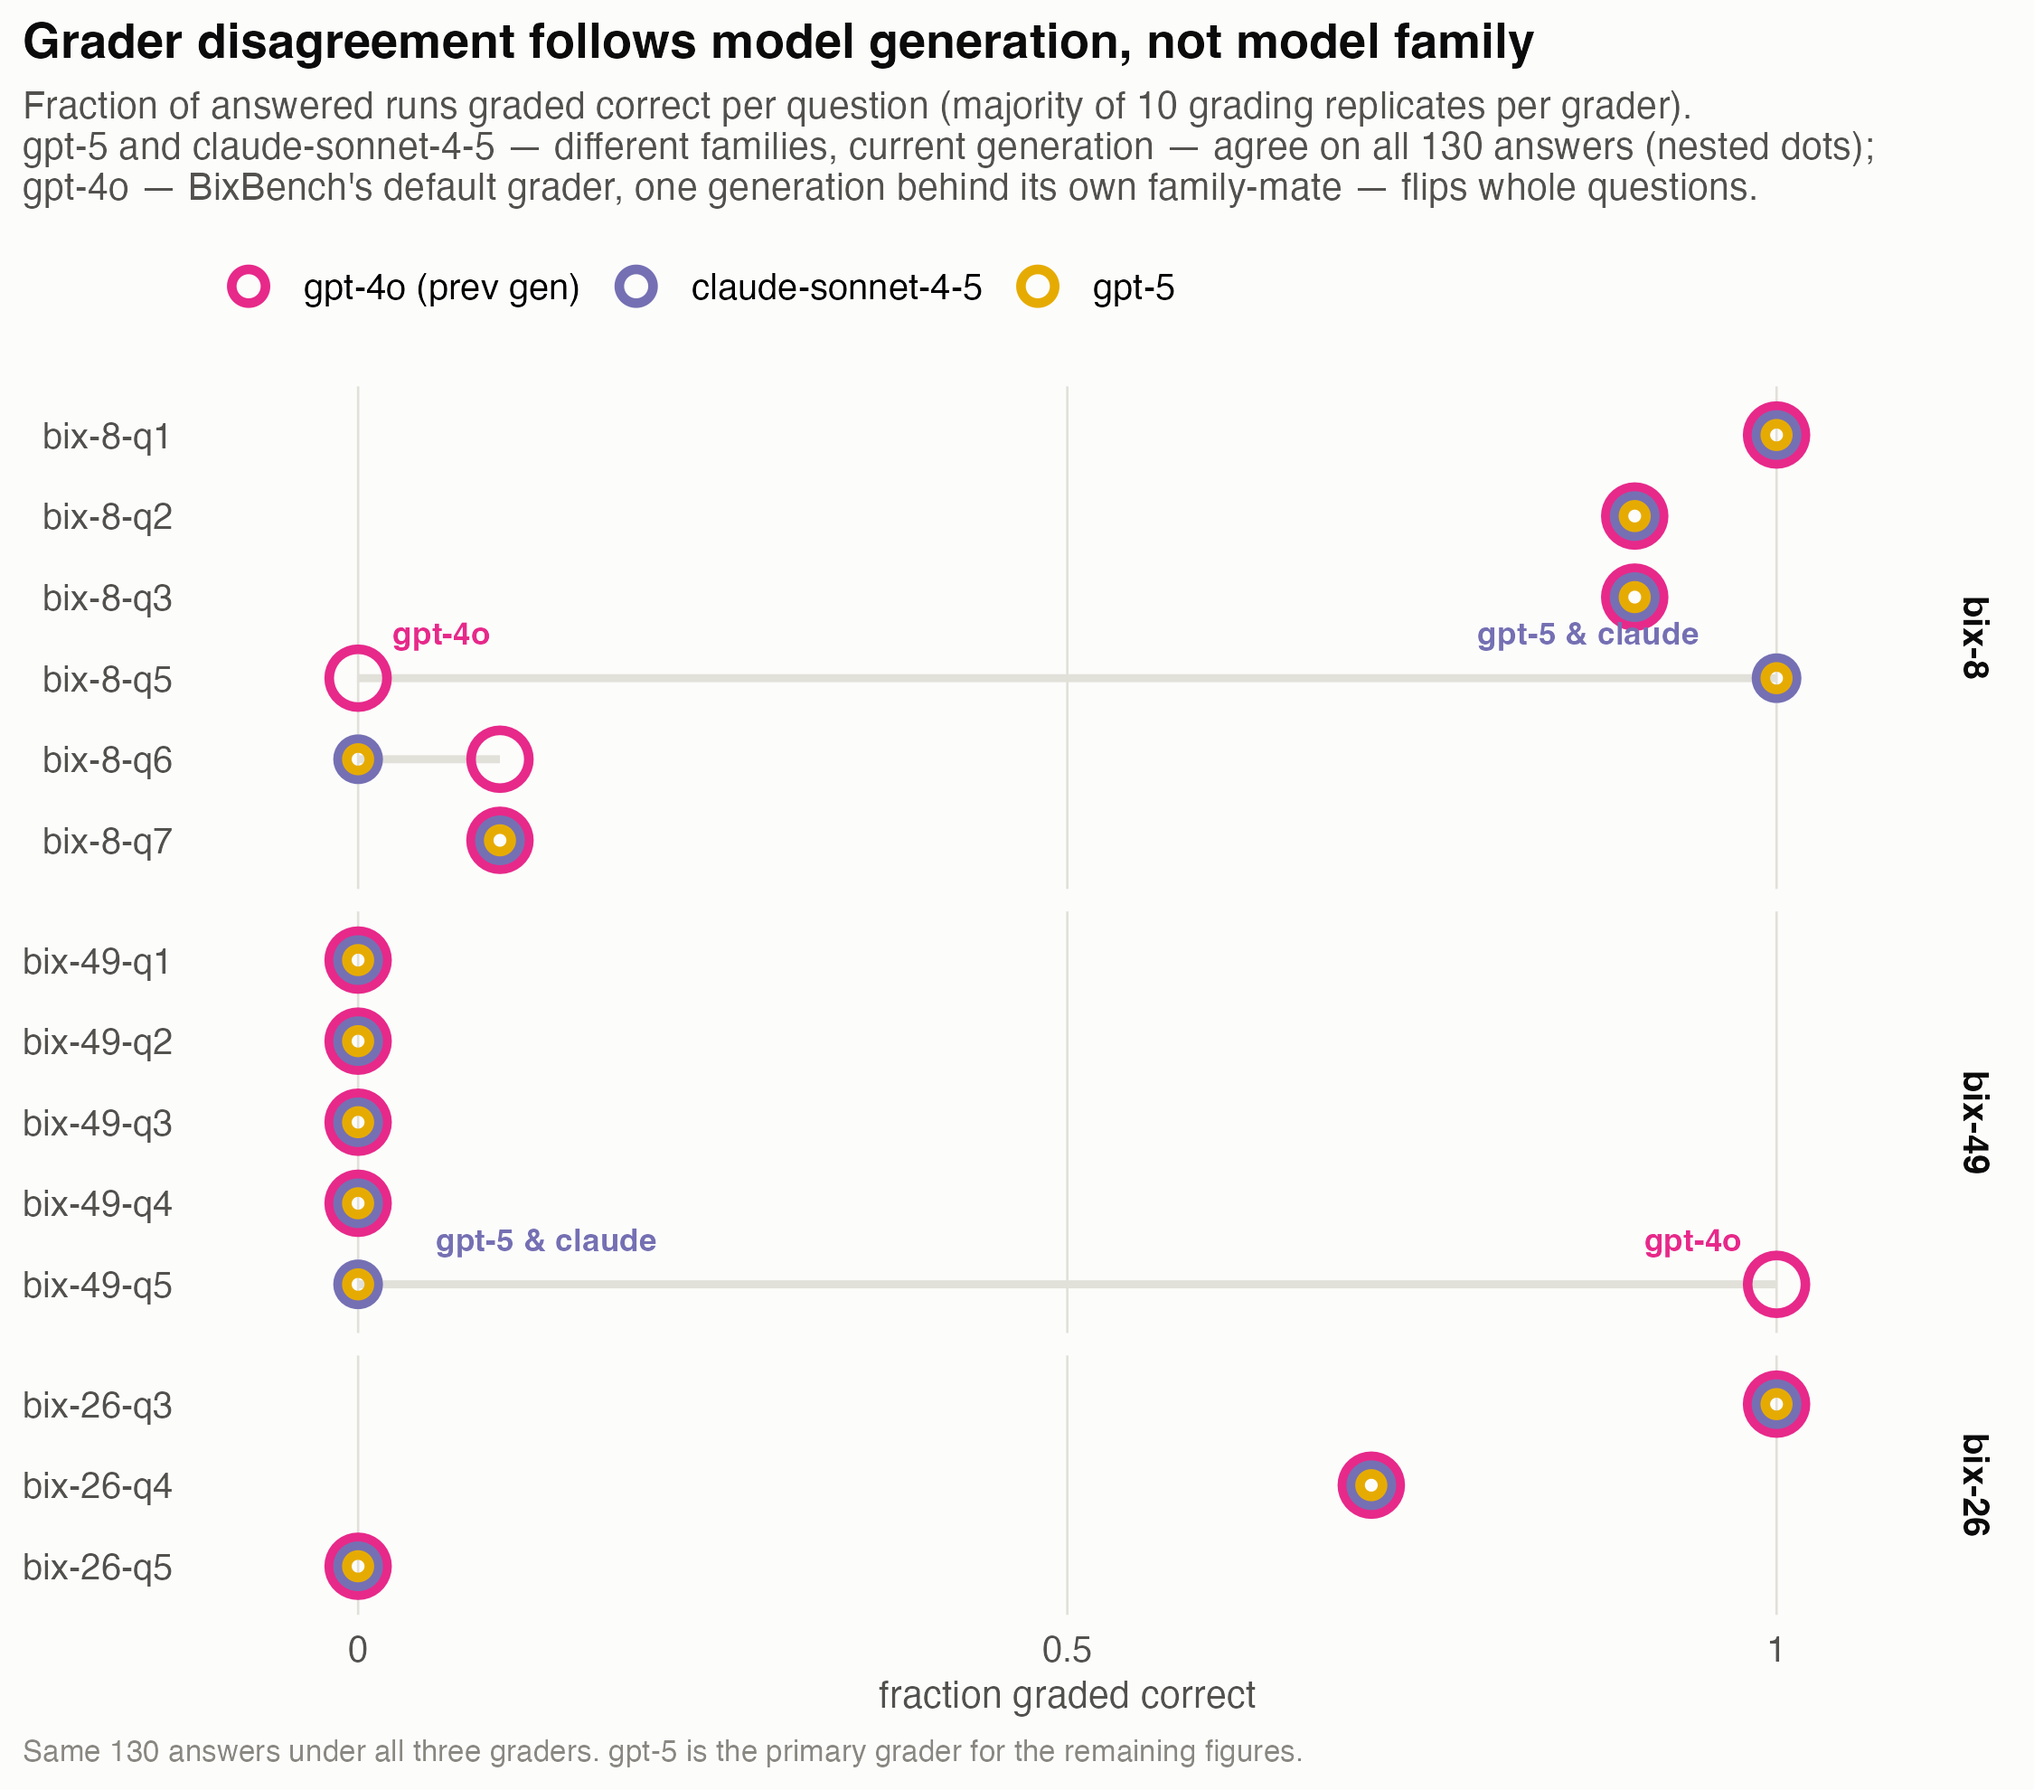
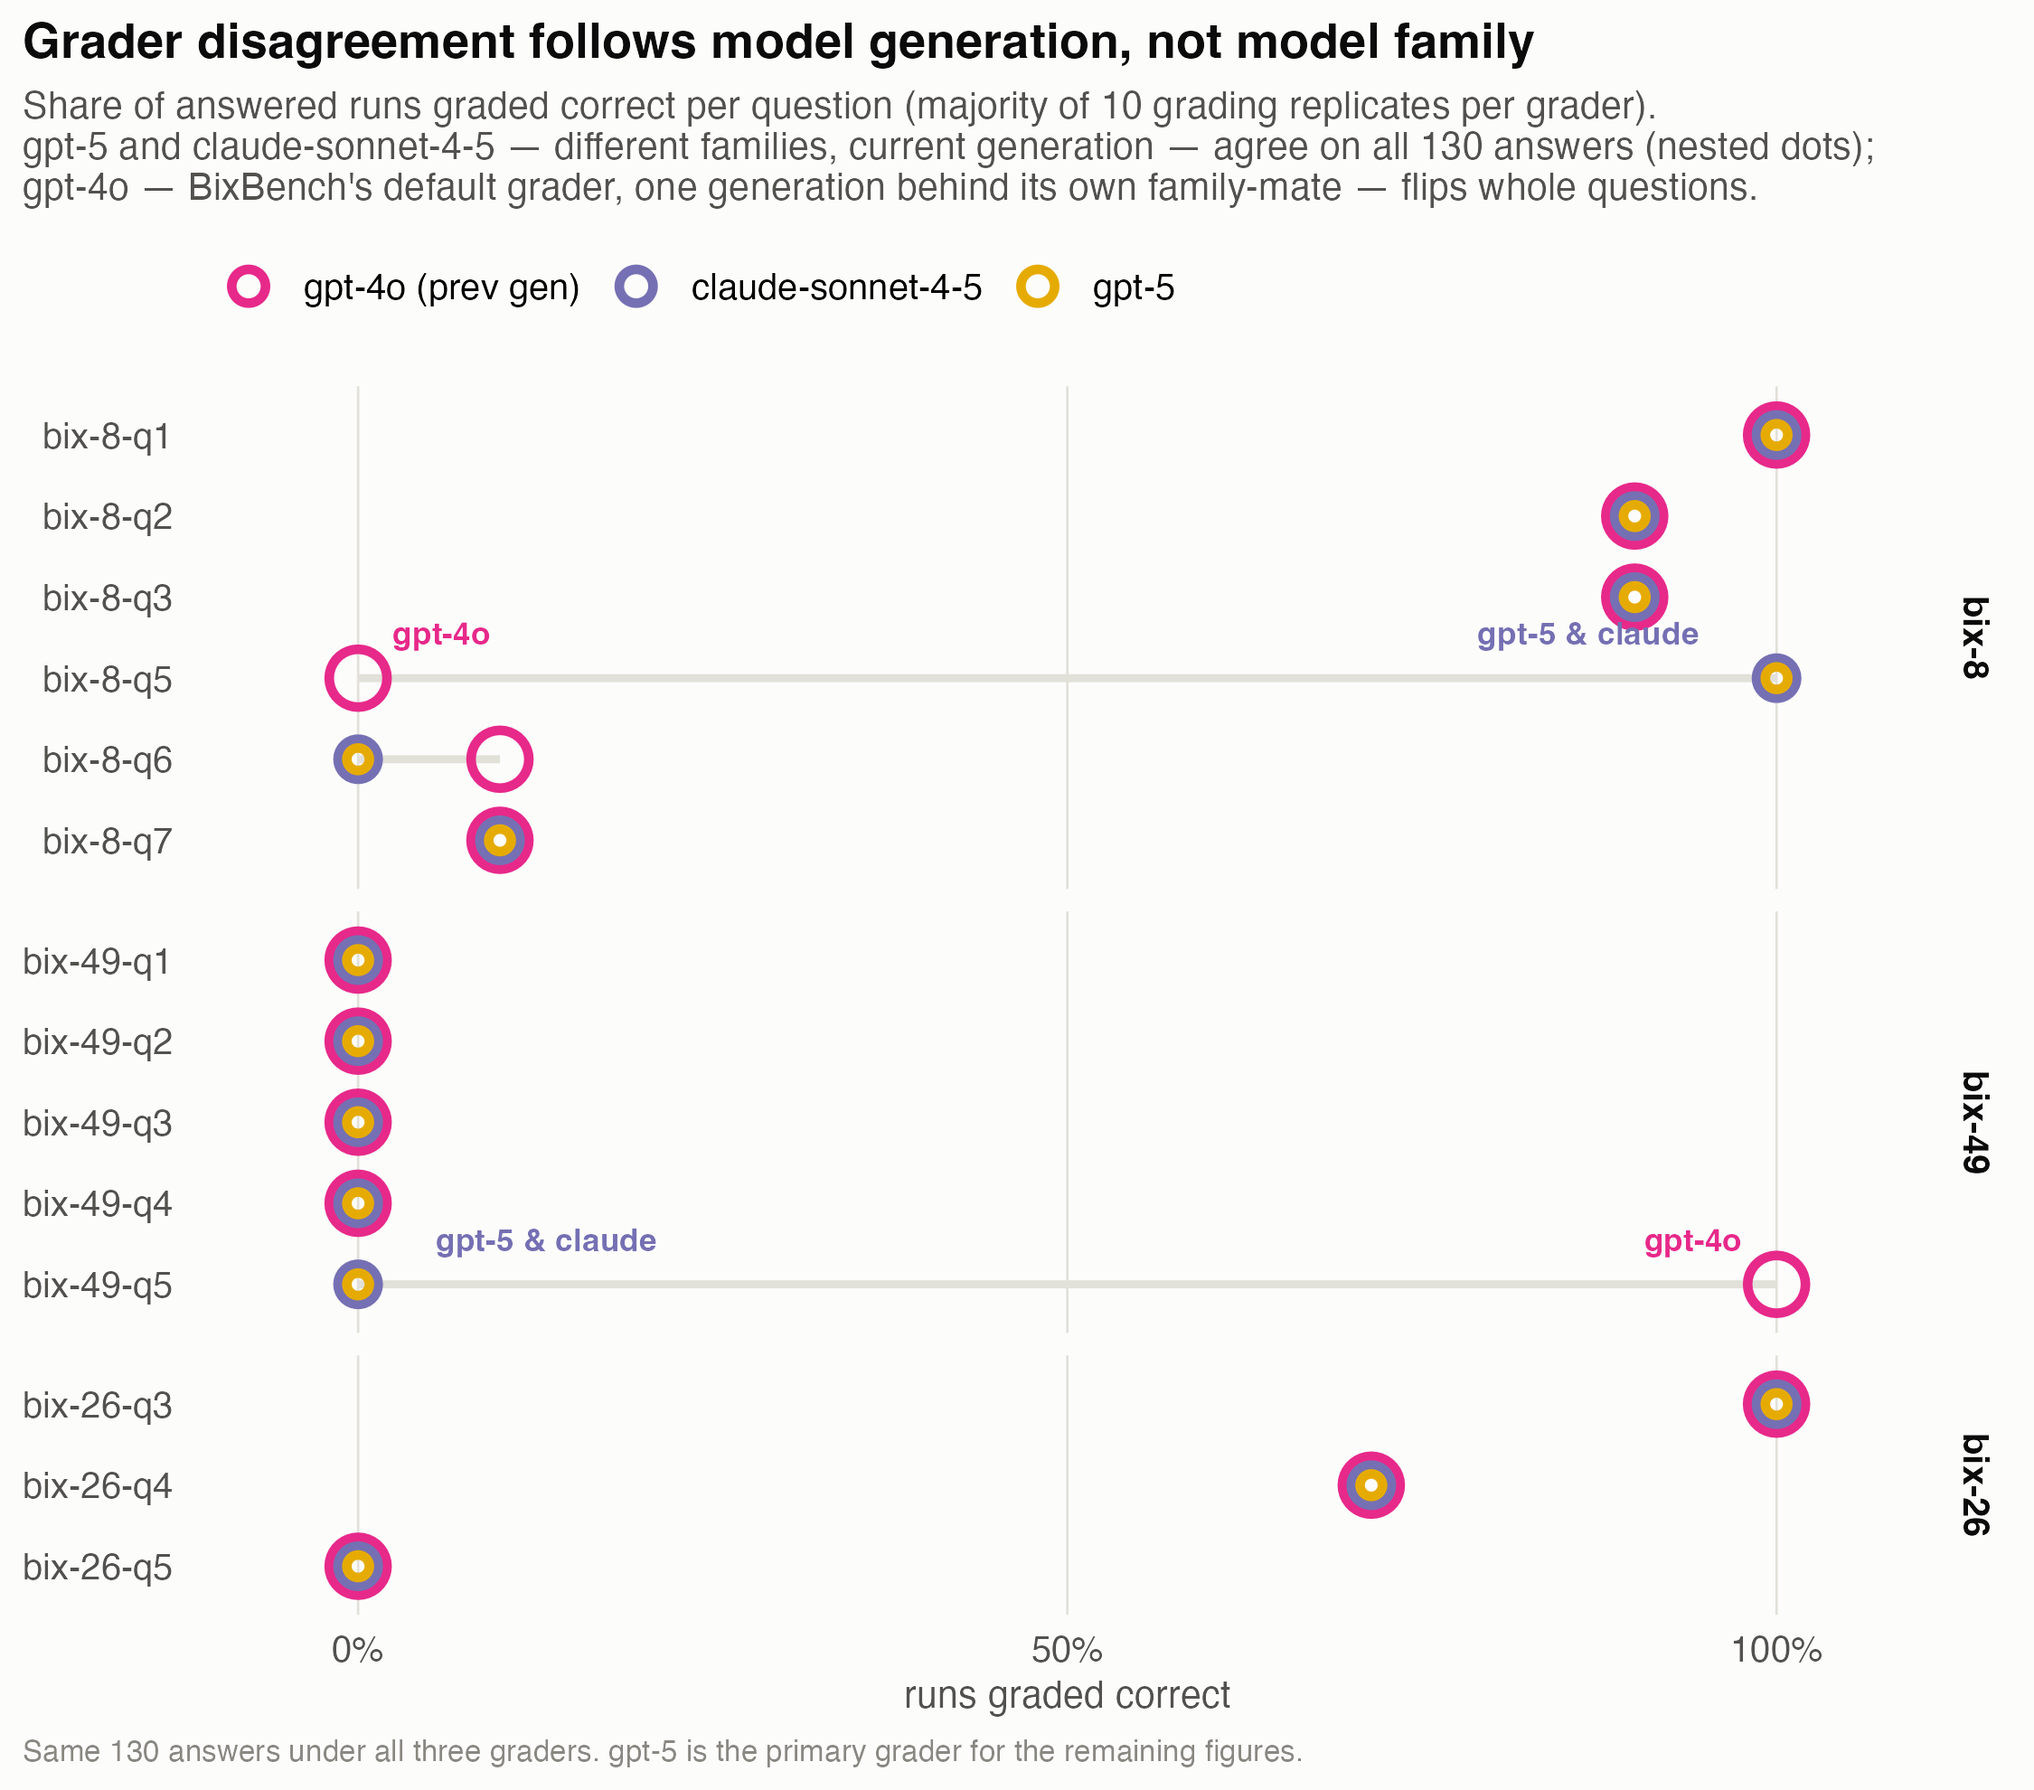
Draft the grader section, brief by design
The grader reliability check reads as expected-but-consequential: split-vote
self-contradiction stated as a number the figure cannot show, the two
whole-question divergences named as systematic disagreements with the current
graders rather than errors, and gpt-5 fixed as the grader for everything
downstream. The one-line-config remedy moves to the limitations stub, and
fig 1's axis and subtitle now speak in percentages.

diff --git a/writeup.md b/writeup.md
@@ -76,9 +76,22 @@ flowchart LR
 
 ## The grader is part of the instrument
 
-*(to write — fig 1: gpt-4o self-contradicts on 14.6% of identical answers and
-flips two whole questions; the two current-generation models agree 130/130
-across families. Generation, not vendor; the remedy is one config line.)*
+Before trusting any correct/incorrect label, I checked the graders themselves
+— how reliable each one is, and whether they agree with each other. The result
+is about what you'd expect: grader disagreement follows model generation, not
+model family. gpt-5 and claude-sonnet-4-5 — different families, same
+generation — hand down the same majority verdict on all 130 answers (the
+nested rings in Figure 1). gpt-4o — BixBench's default grader, one generation
+behind its own family-mate — contradicts itself (has split votes) on 14.6% of
+identical answers when asked to regrade, and its majority verdicts had
+systematic disagreements with the two current graders on two whole questions
+(the labeled rows in Figure 1).
+
+Not a surprising result, but a consequential one: every number downstream
+depends on which grader reads the answers. I use gpt-5 for the rest of this
+writeup.
+
+![Figure 1](results/figures/fig1_grader_flips.png)
 
 ## An agent run has three outcomes, not two
 
@@ -101,7 +114,9 @@ partial pooling buys; bridge to the taxonomy.)*
 
 *(to write — small N stated plainly; one agent configuration; graders are
 themselves LLMs, and the Claude grader is the same model that produced the
-answers, mirroring the benchmark's own agentic self-grading path; next steps.)*
+answers, mirroring the benchmark's own agentic self-grading path; the remedy
+for the benchmark's grader noise is a one-line grader-config change; next
+steps.)*
 
 ## References
 
